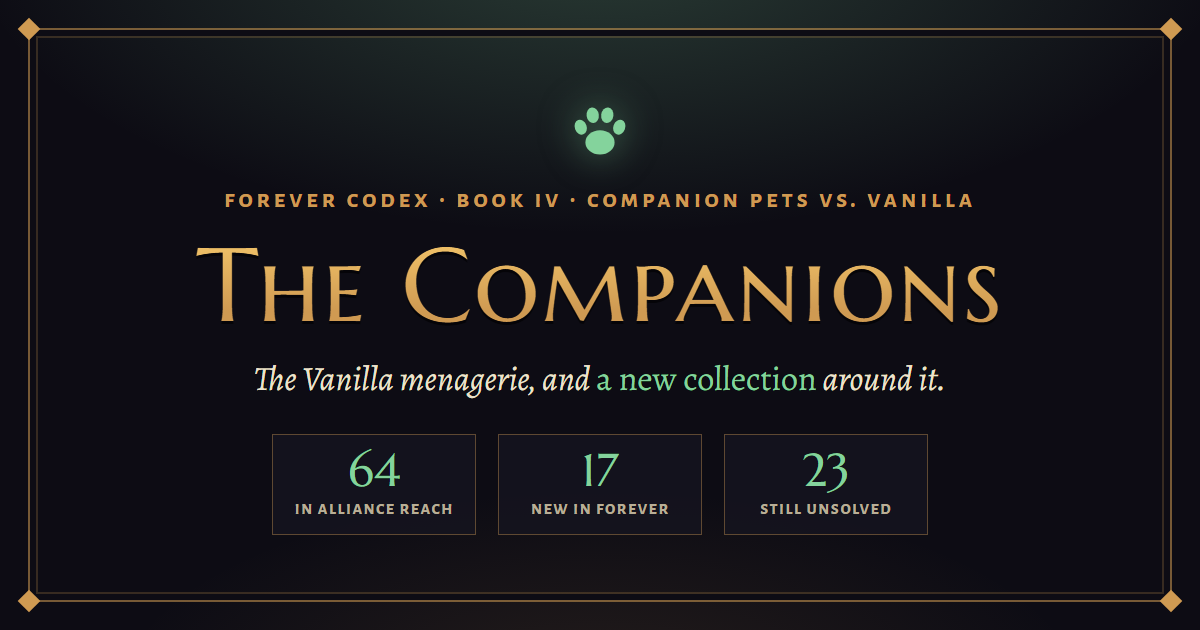
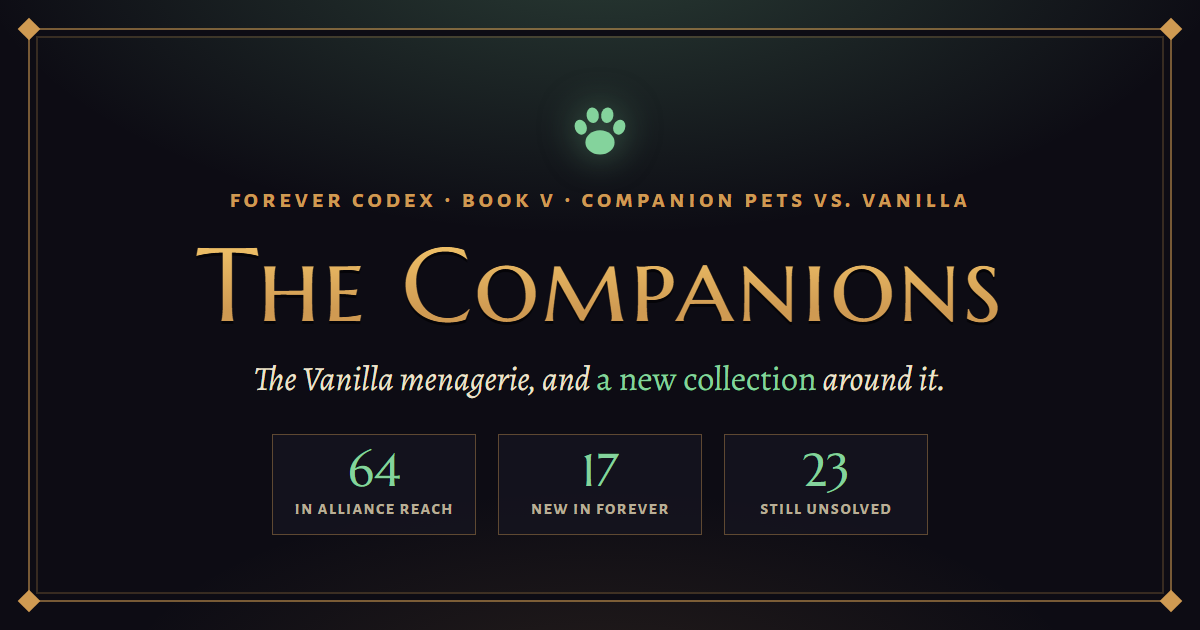
Put the companions book last
The World becomes Book IV and the Companions Book V. The mastheads,
book labels, preview cards and landing-page covers follow, and the
read-on chain runs Races, World, Companions, then the appendix.

Changed region(s): [[0.185, 0.3016, 0.8325, 0.3317]]

diff --git a/index.html b/index.html
@@ -4,7 +4,7 @@
 <meta charset="utf-8">
 <meta name="viewport" content="width=device-width, initial-scale=1, viewport-fit=cover">
 <meta name="color-scheme" content="dark light">
-<meta name="description" content="A codex for returning Warcraft veterans: what World of Warcraft: Forever changes against the Vanilla they remember. The story, the classes, the races, companion pets and the world around them, from dungeons and raids to professions and PvP, area by area, with a briefing for every Alliance class and race, a patch log, a glossary and common questions.">
+<meta name="description" content="A codex for returning Warcraft veterans: what World of Warcraft: Forever changes against the Vanilla they remember. The story, the classes, the races, the world around them, from dungeons and raids to professions and PvP, and companion pets, area by area, with a briefing for every Alliance class and race, a patch log, a glossary and common questions.">
 <meta property="og:title" content="Forever Codex">
 <meta property="og:description" content="A codex for returning Warcraft veterans: what World of Warcraft: Forever changes against the Vanilla they remember, from the story, classes and races to dungeons, raids, professions and PvP, with a briefing for every Alliance class and race.">
 <meta property="og:type" content="website">
@@ -13,7 +13,7 @@
 <meta property="og:image" content="https://tuckerscottalleborn.github.io/forever-codex/og.png">
 <meta property="og:image:width" content="1200">
 <meta property="og:image:height" content="630">
-<meta property="og:image:alt" content="Forever Codex, a codex for returning veterans: an hourglass above its five books, The Lore, The Classes, The Races, The Companions and The World">
+<meta property="og:image:alt" content="Forever Codex, a codex for returning veterans: an hourglass above its five books, The Lore, The Classes, The Races, The World and The Companions">
 <meta name="twitter:card" content="summary_large_image">
 <meta name="twitter:title" content="Forever Codex">
 <meta name="twitter:image" content="https://tuckerscottalleborn.github.io/forever-codex/og.png">
@@ -298,8 +298,8 @@ html { scroll-padding-top: 1rem }
       <a href="lore/"><span class="bk-n">I</span>Lore</a>
       <a href="classes/"><span class="bk-n">II</span>Classes</a>
       <a href="races/"><span class="bk-n">III</span>Races</a>
-      <a href="companions/"><span class="bk-n">IV</span><span class="lg">Companions</span><span class="sh">Pets</span></a>
-      <a href="world/"><span class="bk-n">V</span>World</a>
+      <a href="world/"><span class="bk-n">IV</span>World</a>
+      <a href="companions/"><span class="bk-n">V</span><span class="lg">Companions</span><span class="sh">Pets</span></a>
       <a href="appendix/">Appendix</a>
     </nav>
   </div>
@@ -311,7 +311,7 @@ html { scroll-padding-top: 1rem }
     <p class="label">world of warcraft: forever · for returning veterans</p>
     <h1 class="title">Forever Codex</h1>
     <p class="thesis">A codex for veterans coming back to Azeroth: <em>what’s different</em>, set beside the Vanilla they remember.</p>
-    <p class="lede">Forever isn’t Vanilla again, and it isn’t Retail rewound. It keeps the old world, its rules and its history, then changes them on purpose. Each book reads one part of the game against Vanilla: the story, the classes, the races, the companion pets, and the world around them, from dungeons and raids to professions and PvP. A patch log, a glossary and the common questions sit at the back.</p>
+    <p class="lede">Forever isn’t Vanilla again, and it isn’t Retail rewound. It keeps the old world, its rules and its history, then changes them on purpose. Each book reads one part of the game against Vanilla: the story, the classes, the races, the world around them, from dungeons and raids to professions and PvP, and last the companion pets. A patch log, a glossary and the common questions sit at the back.</p>
     <p class="hero-go"><a href="#different">What’s different</a><a href="#returning">Coming back as…</a><a href="#books">The books</a></p>
   </header>
 
@@ -340,19 +340,19 @@ html { scroll-padding-top: 1rem }
         <div class="dr-now"><span class="dr-l">in forever</span><p>Its own time bubble from early Year 1. The old history stands, and what came after it in Retail is precedent, not destiny.</p></div>
       </li>
       <li class="dr" style="--dc: var(--world)">
-        <div class="dr-h"><svg class="dr-ic" aria-hidden="true"><use href="#i-globe"/></svg><h3>The world</h3><a class="dr-go" href="world/#systems">book v · systems →</a></div>
+        <div class="dr-h"><svg class="dr-ic" aria-hidden="true"><use href="#i-globe"/></svg><h3>The world</h3><a class="dr-go" href="world/#systems">book iv · systems →</a></div>
         <div class="dr-was"><span class="dr-l">in vanilla</span><p>Closed gates and unfinished roads: Hyjal off-limits, Dalaran behind its barrier, Alcaz Prison shut, and everything kept per character.</p></div>
         <span class="dr-arrow" aria-hidden="true">→</span>
         <div class="dr-now"><span class="dr-l">in forever</span><p>Four new regions (Hyjal, Riverglades, Shen’dralas and Zephras Isle), over a thousand new quests, account-wide Legacy and optional transmog. Still no flying, and no level scaling.</p></div>
       </li>
       <li class="dr" style="--dc: var(--world)">
-        <div class="dr-h"><svg class="dr-ic" aria-hidden="true"><use href="#i-keep"/></svg><h3>Dungeons and raids</h3><a class="dr-go" href="world/#dungeons">book v · dungeons and raids →</a></div>
+        <div class="dr-h"><svg class="dr-ic" aria-hidden="true"><use href="#i-keep"/></svg><h3>Dungeons and raids</h3><a class="dr-go" href="world/#dungeons">book iv · dungeons and raids →</a></div>
         <div class="dr-was"><span class="dr-l">in vanilla</span><p>The Classic dungeon set, then 40-player Molten Core and Onyxia, found through chat and meeting stones.</p></div>
         <span class="dr-arrow" aria-hidden="true">→</span>
         <div class="dr-now"><span class="dr-l">in forever</span><p>Nine new dungeons from level 13 to 60, a raid tier for 10, 20 and 40 players on December 9, and an LFG listing tool.</p></div>
       </li>
       <li class="dr" style="--dc: var(--world)">
-        <div class="dr-h"><svg class="dr-ic" aria-hidden="true"><use href="#i-gem"/></svg><h3>Gear and stats</h3><a class="dr-go" href="world/#gear">book v · gear and stats →</a></div>
+        <div class="dr-h"><svg class="dr-ic" aria-hidden="true"><use href="#i-gem"/></svg><h3>Gear and stats</h3><a class="dr-go" href="world/#gear">book iv · gear and stats →</a></div>
         <div class="dr-was"><span class="dr-l">in vanilla</span><p>Separate physical and spell hit and crit, weapon skill as the melee stat, and dungeon blues of very uneven worth.</p></div>
         <span class="dr-arrow" aria-hidden="true">→</span>
         <div class="dr-now"><span class="dr-l">in forever</span><p>One Hit and one Crit stat, weapon skill kept but smaller on gear, a new Expertise stat, and every dungeon drop re-examined.</p></div>
@@ -370,19 +370,19 @@ html { scroll-padding-top: 1rem }
         <div class="dr-now"><span class="dr-l">in forever</span><p>Racial weapon skill is gone and every Priest learns Fear Ward. Each race carries a kind of power, with Dwarf Shaman, Human Hunter, Gnome Priest and the new Skyborne.</p></div>
       </li>
       <li class="dr" style="--dc: var(--world)">
-        <div class="dr-h"><svg class="dr-ic" aria-hidden="true"><use href="#i-flask"/></svg><h3>Professions</h3><a class="dr-go" href="world/#professions">book v · professions →</a></div>
+        <div class="dr-h"><svg class="dr-ic" aria-hidden="true"><use href="#i-flask"/></svg><h3>Professions</h3><a class="dr-go" href="world/#professions">book iv · professions →</a></div>
         <div class="dr-was"><span class="dr-l">in vanilla</span><p>A Classic catalogue heavy on weak leveling crafts.</p></div>
         <span class="dr-arrow" aria-hidden="true">→</span>
         <div class="dr-now"><span class="dr-l">in forever</span><p>Over 600 new recipes, crafted leveling sets, campsites every profession builds into, and recipes bought with Merchant’s Favor.</p></div>
       </li>
       <li class="dr" style="--dc: var(--world)">
-        <div class="dr-h"><svg class="dr-ic" aria-hidden="true"><use href="#i-swords"/></svg><h3>PvP</h3><a class="dr-go" href="world/#pvp">book v · pvp →</a></div>
+        <div class="dr-h"><svg class="dr-ic" aria-hidden="true"><use href="#i-swords"/></svg><h3>PvP</h3><a class="dr-go" href="world/#pvp">book iv · pvp →</a></div>
         <div class="dr-was"><span class="dr-l">in vanilla</span><p>A weekly standings race to Grand Marshal, in three battlegrounds.</p></div>
         <span class="dr-arrow" aria-hidden="true">→</span>
         <div class="dr-now"><span class="dr-l">in forever</span><p>Ranks 1–14 earned with Rank Points, Honor to spend, a seasonal Field of Honor Journey, and Darkspear Islands, a new 15v15 battleground.</p></div>
       </li>
       <li class="dr" style="--dc: var(--pets)">
-        <div class="dr-h"><svg class="dr-ic" aria-hidden="true"><use href="#i-paw"/></svg><h3>The companions</h3><a class="dr-go" href="companions/">book iv · the companions →</a></div>
+        <div class="dr-h"><svg class="dr-ic" aria-hidden="true"><use href="#i-paw"/></svg><h3>The companions</h3><a class="dr-go" href="companions/">book v · the companions →</a></div>
         <div class="dr-was"><span class="dr-l">in vanilla</span><p>Bag-space vanity items, a few brutal world drops, and the Collector’s Edition trio out of reach for good.</p></div>
         <span class="dr-arrow" aria-hidden="true">→</span>
         <div class="dr-now"><span class="dr-l">in forever</span><p>Learned, account-wide companions, new ones from rares, quests, emotes, Legacy and reputation, a Black Market Auction House, and the Zergling, Panda Cub and Mini Diablo sold again.</p></div>
@@ -632,25 +632,10 @@ html { scroll-padding-top: 1rem }
       </ol>
     </article>
 
-    <article class="book bk-pets frame" aria-labelledby="bk4-h">
-      <a class="cover" href="companions/">
-        <svg class="cover-motif" aria-hidden="true"><use href="#i-paw"/></svg>
-        <span class="label">book iv · companion pets</span>
-        <h3 id="bk4-h"><span>The Companions</span><i aria-hidden="true">→</i></h3>
-      </a>
-      <p class="book-thesis">The Vanilla menagerie is still here. <em>The collection built around it is new.</em></p>
-      <ol class="toc" aria-label="The Companions: contents">
-        <li style="--pc: var(--pets)"><a href="companions/#changes"><span class="rn">I</span><b>What changed</b><span>Learned companions, the Collector’s Edition trio, new sources and moved odds</span></a></li>
-        <li style="--pc: var(--pets)"><a href="companions/#catalog"><span class="rn">II</span><b>The catalog</b><span>Sixty-four companions within Alliance reach, as a checklist, with the beta’s drop counts</span></a></li>
-        <li style="--pc: var(--pets)"><a href="companions/#route"><span class="rn">III</span><b>Collecting in order</b><span>An Alliance route, and the pets easiest to miss</span></a></li>
-        <li class="dash" style="--pc: var(--pets)"><a href="companions/#tiers"><span class="rn">✦</span><b>Difficulty and the unsolved</b><span>Effort tiers, and 23 companions nobody can get yet</span></a></li>
-      </ol>
-    </article>
-
     <article class="book bk-world frame" aria-labelledby="bk5-h">
       <a class="cover" href="world/">
         <svg class="cover-motif" aria-hidden="true"><use href="#i-globe"/></svg>
-        <span class="label">book v · the world</span>
+        <span class="label">book iv · the world</span>
         <h3 id="bk5-h"><span>The World</span><i aria-hidden="true">→</i></h3>
       </a>
       <p class="book-thesis">Evolution, not replacement: <em>the old world stands</em>, and Forever builds beside it.</p>
@@ -660,6 +645,21 @@ html { scroll-padding-top: 1rem }
         <li style="--pc: var(--world)"><a href="world/#professions"><span class="rn">III</span><b>Professions</b><span>600+ new recipes, camping and the Greenhouse, Merchant’s Favor</span></a></li>
         <li style="--pc: var(--world)"><a href="world/#systems"><span class="rn">IV</span><b>Systems and the world</b><span>Leveling, mounts, Legacy, transmog, the new regions and rulesets</span></a></li>
         <li style="--pc: var(--world)"><a href="world/#cost"><span class="rn">V</span><b>The packs, and PvP</b><span>What costs money; then ranks, Honor and Darkspear Islands</span></a></li>
+      </ol>
+    </article>
+
+    <article class="book bk-pets frame" aria-labelledby="bk4-h">
+      <a class="cover" href="companions/">
+        <svg class="cover-motif" aria-hidden="true"><use href="#i-paw"/></svg>
+        <span class="label">book v · companion pets</span>
+        <h3 id="bk4-h"><span>The Companions</span><i aria-hidden="true">→</i></h3>
+      </a>
+      <p class="book-thesis">The Vanilla menagerie is still here. <em>The collection built around it is new.</em></p>
+      <ol class="toc" aria-label="The Companions: contents">
+        <li style="--pc: var(--pets)"><a href="companions/#changes"><span class="rn">I</span><b>What changed</b><span>Learned companions, the Collector’s Edition trio, new sources and moved odds</span></a></li>
+        <li style="--pc: var(--pets)"><a href="companions/#catalog"><span class="rn">II</span><b>The catalog</b><span>Sixty-four companions within Alliance reach, as a checklist, with the beta’s drop counts</span></a></li>
+        <li style="--pc: var(--pets)"><a href="companions/#route"><span class="rn">III</span><b>Collecting in order</b><span>An Alliance route, and the pets easiest to miss</span></a></li>
+        <li class="dash" style="--pc: var(--pets)"><a href="companions/#tiers"><span class="rn">✦</span><b>Difficulty and the unsolved</b><span>Effort tiers, and 23 companions nobody can get yet</span></a></li>
       </ol>
     </article>
 

diff --git a/world/index.html b/world/index.html
@@ -13,7 +13,7 @@
 <meta property="og:image" content="https://tuckerscottalleborn.github.io/forever-codex/world/og.png">
 <meta property="og:image:width" content="1200">
 <meta property="og:image:height" content="630">
-<meta property="og:image:alt" content="The World, book five of the Forever Codex: dungeons, raids, gear, professions, systems and PvP against Vanilla">
+<meta property="og:image:alt" content="The World, book four of the Forever Codex: dungeons, raids, gear, professions, systems and PvP against Vanilla">
 <meta name="twitter:card" content="summary_large_image">
 <meta name="twitter:title" content="The World · Forever Codex">
 <meta name="twitter:image" content="https://tuckerscottalleborn.github.io/forever-codex/world/og.png">
@@ -28,7 +28,7 @@
 <link rel="stylesheet" href="https://fonts.googleapis.com/css2?family=Marcellus&family=Marcellus+SC&family=Alegreya:ital,wght@0,400;0,600;0,700;1,400&family=Alegreya+Sans+SC:wght@500;700&family=Alegreya+Sans:wght@400;500;700&display=swap">
 <link rel="stylesheet" href="../codex.css">
 <style>
-/* Book V of the Forever Codex (tokens, frames, masthead, the bar's shell and the .vs tags are in
+/* Book IV of the Forever Codex (tokens, frames, masthead, the bar's shell and the .vs tags are in
    codex.css). Everything outside classes and races, each part read against Vanilla: dungeons,
    raids, gear and stats, professions, the systems around them, what costs money, and PvP.
    Tables collapse to labelled cards on a phone (each cell carries its label in data-l). */
@@ -191,8 +191,8 @@ a.xl { color: var(--bronze-hi); text-underline-offset: 3px }
       <a href="../lore/"><span class="bk-n">I</span>Lore</a>
       <a href="../classes/"><span class="bk-n">II</span>Classes</a>
       <a href="../races/"><span class="bk-n">III</span>Races</a>
-      <a href="../companions/"><span class="bk-n">IV</span><span class="lg">Companions</span><span class="sh">Pets</span></a>
-      <a href="../world/" aria-current="page"><span class="bk-n">V</span>World</a>
+      <a href="../world/" aria-current="page"><span class="bk-n">IV</span>World</a>
+      <a href="../companions/"><span class="bk-n">V</span><span class="lg">Companions</span><span class="sh">Pets</span></a>
       <a href="../appendix/">Appendix</a>
     </nav>
   </div>
@@ -201,7 +201,7 @@ a.xl { color: var(--bronze-hi); text-underline-offset: 3px }
 <div class="wrap">
 <header class="hero" id="top">
   <div class="hero-top">
-    <p class="label">forever codex · book v · the world outside classes and races, read against vanilla</p>
+    <p class="label">forever codex · book iv · the world outside classes and races, read against vanilla</p>
     <h1 class="title">The World</h1>
     <p class="thesis">Evolution, not replacement: <em>the old world stands</em>, and Forever builds beside it.</p>
   </div>
@@ -611,11 +611,11 @@ a.xl { color: var(--bronze-hi); text-underline-offset: 3px }
   </div>
 </section>
 
-<nav class="next-book" aria-label="The appendix">
-  <a class="nb frame" href="../appendix/">
-    <span class="label">the back of the codex</span>
-    <span class="nb-t">The Appendix</span>
-    <span class="nb-s">The patch log, a glossary of Forever’s new names, and the questions veterans ask first.</span>
+<nav class="next-book" aria-label="Next book">
+  <a class="nb frame" href="../companions/" style="--nb-c: var(--pets)">
+    <span class="label">book v · read on</span>
+    <span class="nb-t">The Companions</span>
+    <span class="nb-s">Companion pets against Vanilla: every one within an Alliance character’s reach, how to get it, and a route and checklist for collecting them.</span>
     <span class="nb-arrow" aria-hidden="true">→</span>
   </a>
 </nav>

diff --git a/companions/index.html b/companions/index.html
@@ -13,7 +13,7 @@
 <meta property="og:image" content="https://tuckerscottalleborn.github.io/forever-codex/companions/og.png">
 <meta property="og:image:width" content="1200">
 <meta property="og:image:height" content="630">
-<meta property="og:image:alt" content="The Companions, book four of the Forever Codex: a paw print over a checklist of companion pets">
+<meta property="og:image:alt" content="The Companions, book five of the Forever Codex: a paw print over a checklist of companion pets">
 <meta name="twitter:card" content="summary_large_image">
 <meta name="twitter:title" content="The Companions · Forever Codex">
 <meta name="twitter:image" content="https://tuckerscottalleborn.github.io/forever-codex/companions/og.png">
@@ -28,7 +28,7 @@
 <link rel="stylesheet" href="https://fonts.googleapis.com/css2?family=Marcellus&family=Marcellus+SC&family=Alegreya:ital,wght@0,400;0,600;0,700;1,400&family=Alegreya+Sans+SC:wght@500;700&family=Alegreya+Sans:wght@400;500;700&display=swap">
 <link rel="stylesheet" href="../codex.css">
 <style>
-/* Book IV of the Forever Codex (tokens, frames, masthead, the bar's shell and the .vs tags are in
+/* Book V of the Forever Codex (tokens, frames, masthead, the bar's shell and the .vs tags are in
    codex.css). Layout: a hero with a "since Vanilla" ledger, what changed, the catalog as a
    checklist (checks are kept in this browser only), an Alliance route, difficulty tiers, and the
    companions still unsolved. Alliance-side only: the Horde-city pets are one short list. */
@@ -242,8 +242,8 @@ a.chip:hover { background: color-mix(in oklab, var(--pets) 20%, transparent) }
       <a href="../lore/"><span class="bk-n">I</span>Lore</a>
       <a href="../classes/"><span class="bk-n">II</span>Classes</a>
       <a href="../races/"><span class="bk-n">III</span>Races</a>
-      <a href="../companions/" aria-current="page"><span class="bk-n">IV</span><span class="lg">Companions</span><span class="sh">Pets</span></a>
-      <a href="../world/"><span class="bk-n">V</span>World</a>
+      <a href="../world/"><span class="bk-n">IV</span>World</a>
+      <a href="../companions/" aria-current="page"><span class="bk-n">V</span><span class="lg">Companions</span><span class="sh">Pets</span></a>
       <a href="../appendix/">Appendix</a>
     </nav>
   </div>
@@ -252,7 +252,7 @@ a.chip:hover { background: color-mix(in oklab, var(--pets) 20%, transparent) }
 <div class="wrap">
 <header class="hero" id="top">
   <div class="hero-top">
-    <p class="label">forever codex · book iv · companion pets, read against vanilla</p>
+    <p class="label">forever codex · book v · companion pets, read against vanilla</p>
     <h1 class="title">The Companions</h1>
     <p class="thesis">The Vanilla menagerie is still here. <em>The collection built around it is new.</em></p>
   </div>
@@ -626,11 +626,11 @@ a.chip:hover { background: color-mix(in oklab, var(--pets) 20%, transparent) }
   </ol>
 </section>
 
-<nav class="next-book" aria-label="Next book">
-  <a class="nb frame" href="../world/" style="--nb-c: var(--world)">
-    <span class="label">book v · read on</span>
-    <span class="nb-t">The World</span>
-    <span class="nb-s">Everything outside classes and races: the new dungeons and raids, gear, professions and camping, Legacy and transmog, what costs money, and PvP.</span>
+<nav class="next-book" aria-label="The appendix">
+  <a class="nb frame" href="../appendix/">
+    <span class="label">the back of the codex</span>
+    <span class="nb-t">The Appendix</span>
+    <span class="nb-s">The patch log, a glossary of Forever’s new names, and the questions veterans ask first.</span>
     <span class="nb-arrow" aria-hidden="true">→</span>
   </a>
 </nav>

diff --git a/appendix/index.html b/appendix/index.html
@@ -183,8 +183,8 @@ h1, h2, h3, h4 { font-family: var(--f-caps) }
       <a href="../lore/"><span class="bk-n">I</span>Lore</a>
       <a href="../classes/"><span class="bk-n">II</span>Classes</a>
       <a href="../races/"><span class="bk-n">III</span>Races</a>
-      <a href="../companions/"><span class="bk-n">IV</span><span class="lg">Companions</span><span class="sh">Pets</span></a>
-      <a href="../world/"><span class="bk-n">V</span>World</a>
+      <a href="../world/"><span class="bk-n">IV</span>World</a>
+      <a href="../companions/"><span class="bk-n">V</span><span class="lg">Companions</span><span class="sh">Pets</span></a>
       <a href="../appendix/" aria-current="page">Appendix</a>
     </nav>
   </div>
@@ -210,8 +210,8 @@ h1, h2, h3, h4 { font-family: var(--f-caps) }
         <li><b>Book I · The Lore</b><span>October 2026, from Blizzard’s recaps and dungeon and raid previews</span></li>
         <li><b>Book II · The Classes</b><span>Through the October 16 build, compiled October 22; its racial notes follow October 26</span></li>
         <li><b>Book III · The Races</b><span>The final October 26 pass, compiled October 26</span></li>
-        <li><b>Book V · The World</b><span>Blizzard’s previews and development notes, with Wowhead’s Patch 1.60.1 coverage, compiled October 26</span></li>
-        <li><b>Book IV · The Companions</b><span>Wowhead’s Forever database for Patch 1.60.1, with beta drop counts, compiled October 26</span></li>
+        <li><b>Book IV · The World</b><span>Blizzard’s previews and development notes, with Wowhead’s Patch 1.60.1 coverage, compiled October 26</span></li>
+        <li><b>Book V · The Companions</b><span>Wowhead’s Forever database for Patch 1.60.1, with beta drop counts, compiled October 26</span></li>
       </ul>
       <p class="tt-foot">Beta values can still move before launch. Where an older guide disagrees with a later pass, the later pass wins.</p>
     </aside>

diff --git a/races/index.html b/races/index.html
@@ -277,8 +277,8 @@ h1, h2, h3, h4 { font-family: var(--f-caps) }
       <a href="../lore/"><span class="bk-n">I</span>Lore</a>
       <a href="../classes/"><span class="bk-n">II</span>Classes</a>
       <a href="../races/" aria-current="page"><span class="bk-n">III</span>Races</a>
-      <a href="../companions/"><span class="bk-n">IV</span><span class="lg">Companions</span><span class="sh">Pets</span></a>
-      <a href="../world/"><span class="bk-n">V</span>World</a>
+      <a href="../world/"><span class="bk-n">IV</span>World</a>
+      <a href="../companions/"><span class="bk-n">V</span><span class="lg">Companions</span><span class="sh">Pets</span></a>
       <a href="../appendix/">Appendix</a>
     </nav>
   </div>
@@ -805,10 +805,10 @@ h1, h2, h3, h4 { font-family: var(--f-caps) }
 </section>
 
 <nav class="next-book" aria-label="Next book">
-  <a class="nb frame" href="../companions/" style="--nb-c: var(--pets)">
+  <a class="nb frame" href="../world/" style="--nb-c: var(--world)">
     <span class="label">book iv · read on</span>
-    <span class="nb-t">The Companions</span>
-    <span class="nb-s">Companion pets against Vanilla: every one within an Alliance character’s reach, how to get it, and a route and checklist for collecting them.</span>
+    <span class="nb-t">The World</span>
+    <span class="nb-s">Everything outside classes and races: the new dungeons and raids, gear, professions and camping, Legacy and transmog, what costs money, and PvP.</span>
     <span class="nb-arrow" aria-hidden="true">→</span>
   </a>
 </nav>

diff --git a/og/card.html b/og/card.html
@@ -29,7 +29,7 @@
     background: linear-gradient(180deg, #f4c76b, #cf9a52 75%); -webkit-background-clip: text; background-clip: text; color: transparent;
     filter: drop-shadow(0 3px 0 rgba(0,0,0,.6));
   }
-  .books { position: absolute; left: 56px; right: 56px; bottom: 82px; display: grid; grid-template-columns: 1fr auto 1fr auto 1fr auto 1.25fr auto 1fr; align-items: center; gap: 12px; text-align: center }
+  .books { position: absolute; left: 56px; right: 56px; bottom: 82px; display: grid; grid-template-columns: 1fr auto 1fr auto 1fr auto 1fr auto 1.25fr; align-items: center; gap: 12px; text-align: center }
   .bk { display: grid; gap: 4px }
   .bk .n { font-family: "Alegreya Sans SC", sans-serif; font-weight: 700; font-size: 17px; letter-spacing: .14em; text-transform: lowercase }
   .bk b { font-family: "Marcellus SC", Georgia, serif; font-weight: 400; font-size: 32px; line-height: 1.05; white-space: nowrap }
@@ -60,9 +60,9 @@
   <span class="sep"></span>
   <div class="bk race"><span class="n">book iii</span><b>Races</b><i>a kind of power</i></div>
   <span class="sep"></span>
-  <div class="bk pets"><span class="n">book iv</span><b>Companions</b><i>a new collection</i></div>
+  <div class="bk world"><span class="n">book iv</span><b>World</b><i>built beside the old</i></div>
   <span class="sep"></span>
-  <div class="bk world"><span class="n">book v</span><b>World</b><i>built beside the old</i></div>
+  <div class="bk pets"><span class="n">book v</span><b>Companions</b><i>a new collection</i></div>
 </div>
 </body>
 </html>

diff --git a/classes/index.html b/classes/index.html
@@ -287,8 +287,8 @@ body.player-open { padding-bottom: 6rem }
       <a href="../lore/"><span class="bk-n">I</span>Lore</a>
       <a href="../classes/" aria-current="page"><span class="bk-n">II</span>Classes</a>
       <a href="../races/"><span class="bk-n">III</span>Races</a>
-      <a href="../companions/"><span class="bk-n">IV</span><span class="lg">Companions</span><span class="sh">Pets</span></a>
-      <a href="../world/"><span class="bk-n">V</span>World</a>
+      <a href="../world/"><span class="bk-n">IV</span>World</a>
+      <a href="../companions/"><span class="bk-n">V</span><span class="lg">Companions</span><span class="sh">Pets</span></a>
       <a href="../appendix/">Appendix</a>
     </nav>
   </div>

diff --git a/lore/index.html b/lore/index.html
@@ -432,8 +432,8 @@ body.lore {
       <a href="../lore/" aria-current="page"><span class="bk-n">I</span>Lore</a>
       <a href="../classes/"><span class="bk-n">II</span>Classes</a>
       <a href="../races/"><span class="bk-n">III</span>Races</a>
-      <a href="../companions/"><span class="bk-n">IV</span><span class="lg">Companions</span><span class="sh">Pets</span></a>
-      <a href="../world/"><span class="bk-n">V</span>World</a>
+      <a href="../world/"><span class="bk-n">IV</span>World</a>
+      <a href="../companions/"><span class="bk-n">V</span><span class="lg">Companions</span><span class="sh">Pets</span></a>
       <a href="../appendix/">Appendix</a>
     </nav>
   </div>

diff --git a/og/companions-card.html b/og/companions-card.html
@@ -52,7 +52,7 @@
 <div class="frame"><i class="d1"></i><i class="d2"></i></div>
 <div class="inner">
   <svg class="paw"><use href="#i-paw"/></svg>
-  <div class="eyebrow">forever codex · book iv · companion pets vs. vanilla</div>
+  <div class="eyebrow">forever codex · book v · companion pets vs. vanilla</div>
   <h1>The Companions</h1>
   <p class="thesis">The Vanilla menagerie, and <b>a new collection</b> around it.</p>
   <div class="stats">

diff --git a/og/world-card.html b/og/world-card.html
@@ -49,7 +49,7 @@
 <div class="frame"><i class="d1"></i><i class="d2"></i></div>
 <div class="inner">
   <svg class="globe"><use href="#i-globe"/></svg>
-  <div class="eyebrow">forever codex · book v · the world vs. vanilla</div>
+  <div class="eyebrow">forever codex · book iv · the world vs. vanilla</div>
   <h1>The World</h1>
   <p class="thesis">Evolution, not replacement: <b>the old world stands</b>.</p>
   <div class="stats">

diff --git a/og/build.py b/og/build.py
@@ -7,8 +7,8 @@ Writes, relative to the site root:
   lore/og.png                         book I's preview (from og/lore-card.html)
   classes/og.png                      book II's preview (from og/classes-card.html)
   races/og.png                        book III's preview (from og/races-card.html)
-  companions/og.png                   book IV's preview (from og/companions-card.html)
-  world/og.png                        book V's preview (from og/world-card.html)
+  world/og.png                        book IV's preview (from og/world-card.html)
+  companions/og.png                   book V's preview (from og/companions-card.html)
   appendix/og.png                     the appendix's preview (from og/appendix-card.html)
   classes/<class>/index.html          share page with its own Discord/OG embed, forwards to classes/#<class>
   classes/<class>/og.png              that class's preview (from og/class-card.html)
@@ -161,8 +161,8 @@ def main() -> None:
     render(HERE / "lore-card.html", ROOT / "lore" / "og.png")
     render(HERE / "classes-card.html", ROOT / "classes" / "og.png")
     render(HERE / "races-card.html", ROOT / "races" / "og.png")
-    render(HERE / "companions-card.html", ROOT / "companions" / "og.png")
     render(HERE / "world-card.html", ROOT / "world" / "og.png")
+    render(HERE / "companions-card.html", ROOT / "companions" / "og.png")
     render(HERE / "appendix-card.html", ROOT / "appendix" / "og.png")
     for c in CLASSES:
         render(HERE / "class-card.html", ROOT / "classes" / c["id"] / "og.png", "#" + urllib.parse.quote(json.dumps(c)))

diff --git a/README.md b/README.md
@@ -9,8 +9,8 @@ A codex to *World of Warcraft: Forever* for returning Warcraft veterans: what's 
 | `classes/` | Book II, **The Classes**: how Forever changes the nine Alliance classes compared with Vanilla, with a narrated episode |
 | `classes/<class>/` | Share pages with their own Discord/Open Graph embed; they forward to that class's sheet |
 | `races/` | Book III, **The Races**: the five Alliance races against Vanilla after Blizzard's final October 26 racial pass, with race leans for every class and spec. The class sheets link into its leans |
-| `companions/` | Book IV, **The Companions**: every companion pet within an Alliance character's reach, as a checklist (checks are kept in the browser's `localStorage` only), with the beta's drop counts, a collecting route, difficulty tiers and the unsolved ones |
-| `world/` | Book V, **The World**: everything outside classes and races against Vanilla: the nine new dungeons and the old ones' keys and levels, the December raid tier, gear and stats, professions and camping, Legacy, transmog, regions and rulesets, what costs money, and PvP |
+| `world/` | Book IV, **The World**: everything outside classes and races against Vanilla: the nine new dungeons and the old ones' keys and levels, the December raid tier, gear and stats, professions and camping, Legacy, transmog, regions and rulesets, what costs money, and PvP |
+| `companions/` | Book V, **The Companions**: every companion pet within an Alliance character's reach, as a checklist (checks are kept in the browser's `localStorage` only), with the beta's drop counts, a collecting route, difficulty tiers and the unsolved ones |
 | `appendix/` | **The Appendix**: a dated patch log, a filterable glossary of every new and changed name against Vanilla, and common questions |
 | `codex.css`, `codex.js` | What every page shares: tokens (both themes), type, frames, the masthead, the sticky bar's shell and reading progress, action-bar slots, the "vs Vanilla" tags, the "next book" card, the footer |
 
